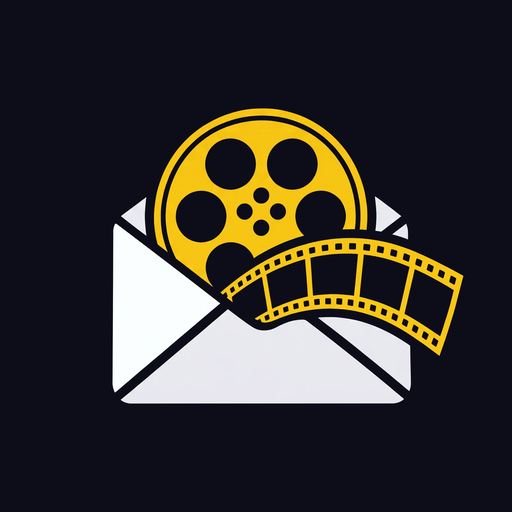
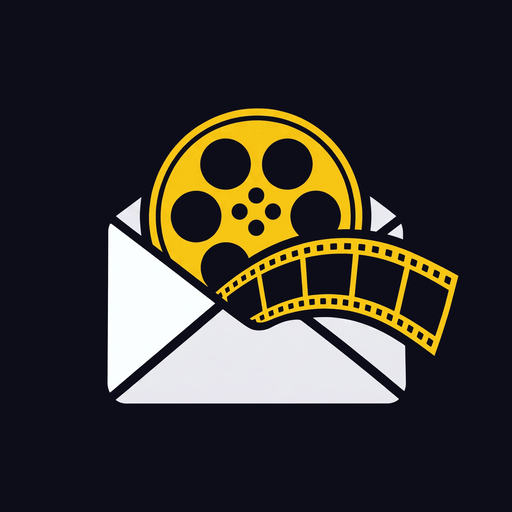
The last commit over-corrected the reel by 5 px, and two methods disagreeing is what said so
v0.57.22 measured the reel's centre as `left_edge + (widest_row - top_row)`, taking the
vertical drop from the disc's top to its widest row as the radius. That is only true if the
topmost gold pixel sits directly above the centre, and with an anti-aliased outline it does
not: the drop measured 102 where the actual half-width at that row was 106.5. Every asset
was therefore pushed about 1% too far right.

It was caught because a second measurement, taken on the deployed file, answered 261.1 where
the first answered 256.5 on the same bytes. A derived radius is a guess wearing a number.

The authority now is the chord midpoint: a circle's horizontal chords all have their midpoint
on its vertical axis, so averaging the midpoint of every gold span across the disc's upper
half - above where the film strip can reach - gives the centre directly, sub-pixel, with no
assumption about where the apex is. On this file that reads 261.0, 261.0, 261.5, 261.5 row
after row, which is the kind of agreement the first method never produced.

All 63 assets re-measured that way and corrected; the worst is now half a pixel, which on a
16 px favicon is as close as a raster gets. Favicons regenerated from the corrected 512 icon
rather than nudged.

Changed region(s): [[0.1875, 0.1875, 0.9062, 0.8125]]

diff --git a/index.html b/index.html
@@ -2877,7 +2877,7 @@ button.is-pressed, .avatar-emoji-btn.is-pressed, .avatar-color-dot.is-pressed { 
         <div style="margin-top:6px" data-i18n="about_privacy" data-i18n-html="1">
           <a href="https://cinemail.app/privacy.html" target="_blank" rel="noopener" style="color:var(--accent-text);text-decoration:none">Privacy Policy</a>
         </div>
-        <div style="margin-top:8px;font-size:10px;color:var(--muted)">Cinemail <span id="app-version">v0.57.22</span></div>
+        <div style="margin-top:8px;font-size:10px;color:var(--muted)">Cinemail <span id="app-version">v0.57.23</span></div>
       </div>
 
       <!-- The footer was: [Close] [Sign Out] side by side, then Delete account under them.

diff --git a/sw.js b/sw.js
@@ -7,7 +7,7 @@
 //
 // Keep this in step with the app version in index.html, so the two can be compared at a
 // glance and a missed bump is visible rather than silent.
-const CACHE_VERSION = "v238-0.57.22";
+const CACHE_VERSION = "v239-0.57.23";
 const CACHE_NAME = "cinemail-" + CACHE_VERSION;
 
 // Files to cache for offline use
